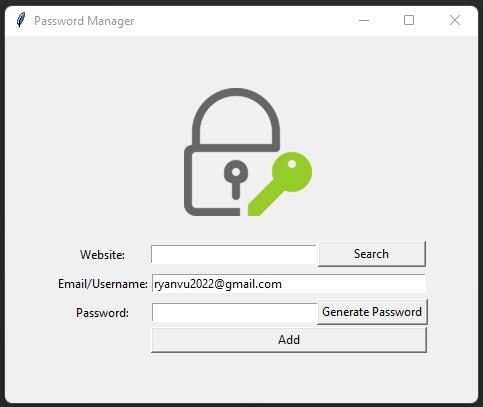
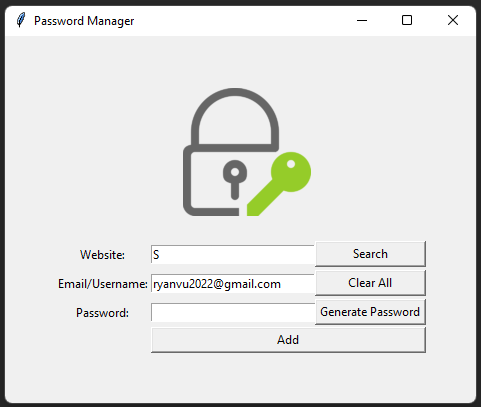
add clear button and adjust positions

diff --git a/main.py b/main.py
@@ -67,11 +67,21 @@ def find_password():
         messagebox.showinfo(title="Error", message="No Data File Found.")
     else:
         if website in data:
-            messagebox.showinfo(title=website, message=f"Email: {data[website]['email']}\nPassword: {data[website]['password']}")
+            messagebox.showinfo(title=website, message=f"Email:          {data[website]['email']}"
+                                                       f"\nPassword:   {data[website]['password']}"
+                                                       f"\n"
+                                                       f"\nPassword has been copied to the clipboard.")
+            pyperclip.copy(data[website]['password'])
         else:
             messagebox.showinfo(title="Error", message=f"No details for {website} exists")
     finally:
         website_entry.delete(0, END)
+
+
+def clear_entries():
+    website_entry.delete(0, END)
+    email_entry.delete(0, END)
+    password_entry.delete(0, END)
 
 
 window = Tk()
@@ -97,25 +107,28 @@ password_label.config(pady=5)
 password_label.grid(row=3, column=0)
 
 # Entries
-website_entry = Entry(width=27)
+website_entry = Entry()
 website_entry.focus()
-website_entry.grid(row=1, column=1)
+website_entry.grid(row=1, column=1, sticky="EW")
 
-email_entry = Entry(width=45)
+email_entry = Entry()
 email_entry.insert(0, "ryanvu2022@gmail.com")
-email_entry.grid(row=2, column=1, columnspan=2)
+email_entry.grid(row=2, column=1, sticky="EW")
 
-password_entry = Entry(width=45)
-password_entry.grid(row=3, column=1, columnspan=2)
+password_entry = Entry()
+password_entry.grid(row=3, column=1, columnspan=2, sticky="EW")
 
 # Buttons
-search_button = Button(text="Search", width=14, command=find_password)
-search_button.grid(row=1, column=2)
+search_button = Button(text="Search", command=find_password)
+search_button.grid(row=1, column=2, sticky="EW")
+
+clear_button = Button(text="Clear All", command=clear_entries)
+clear_button.grid(row=2, column=2, sticky="EW")
 
 password_button = Button(text="Generate Password", command=generate_password)
-password_button.grid(row=3, column=2)
+password_button.grid(row=3, column=2, sticky="EW")
 
-add_button = Button(text="Add", width=38, command=save_password)
-add_button.grid(row=4, column=1, columnspan=2)
+add_button = Button(text="Add", width=35, command=save_password)
+add_button.grid(row=4, column=1, columnspan=2, sticky="EW")
 
 window.mainloop()
